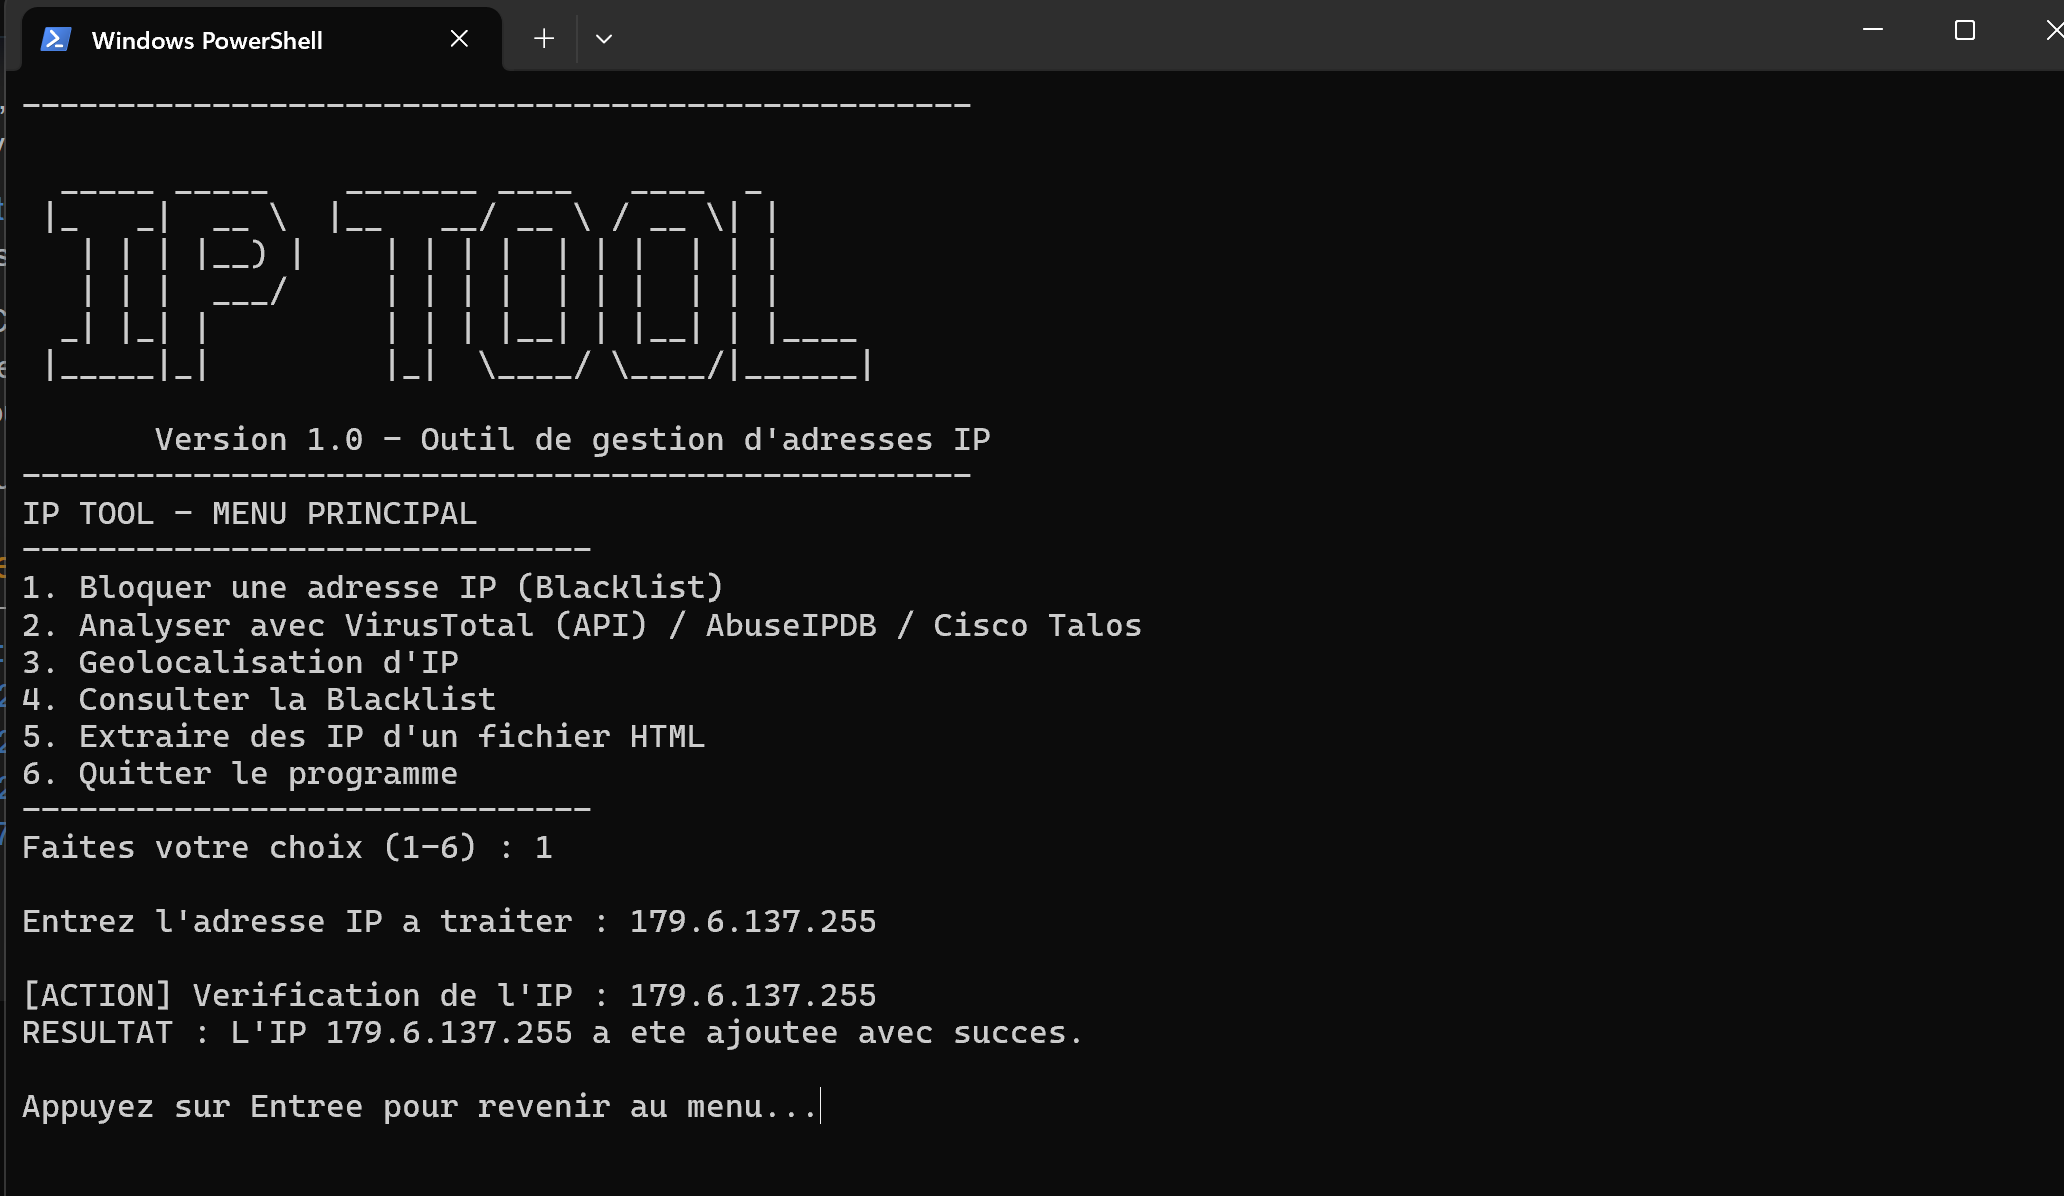
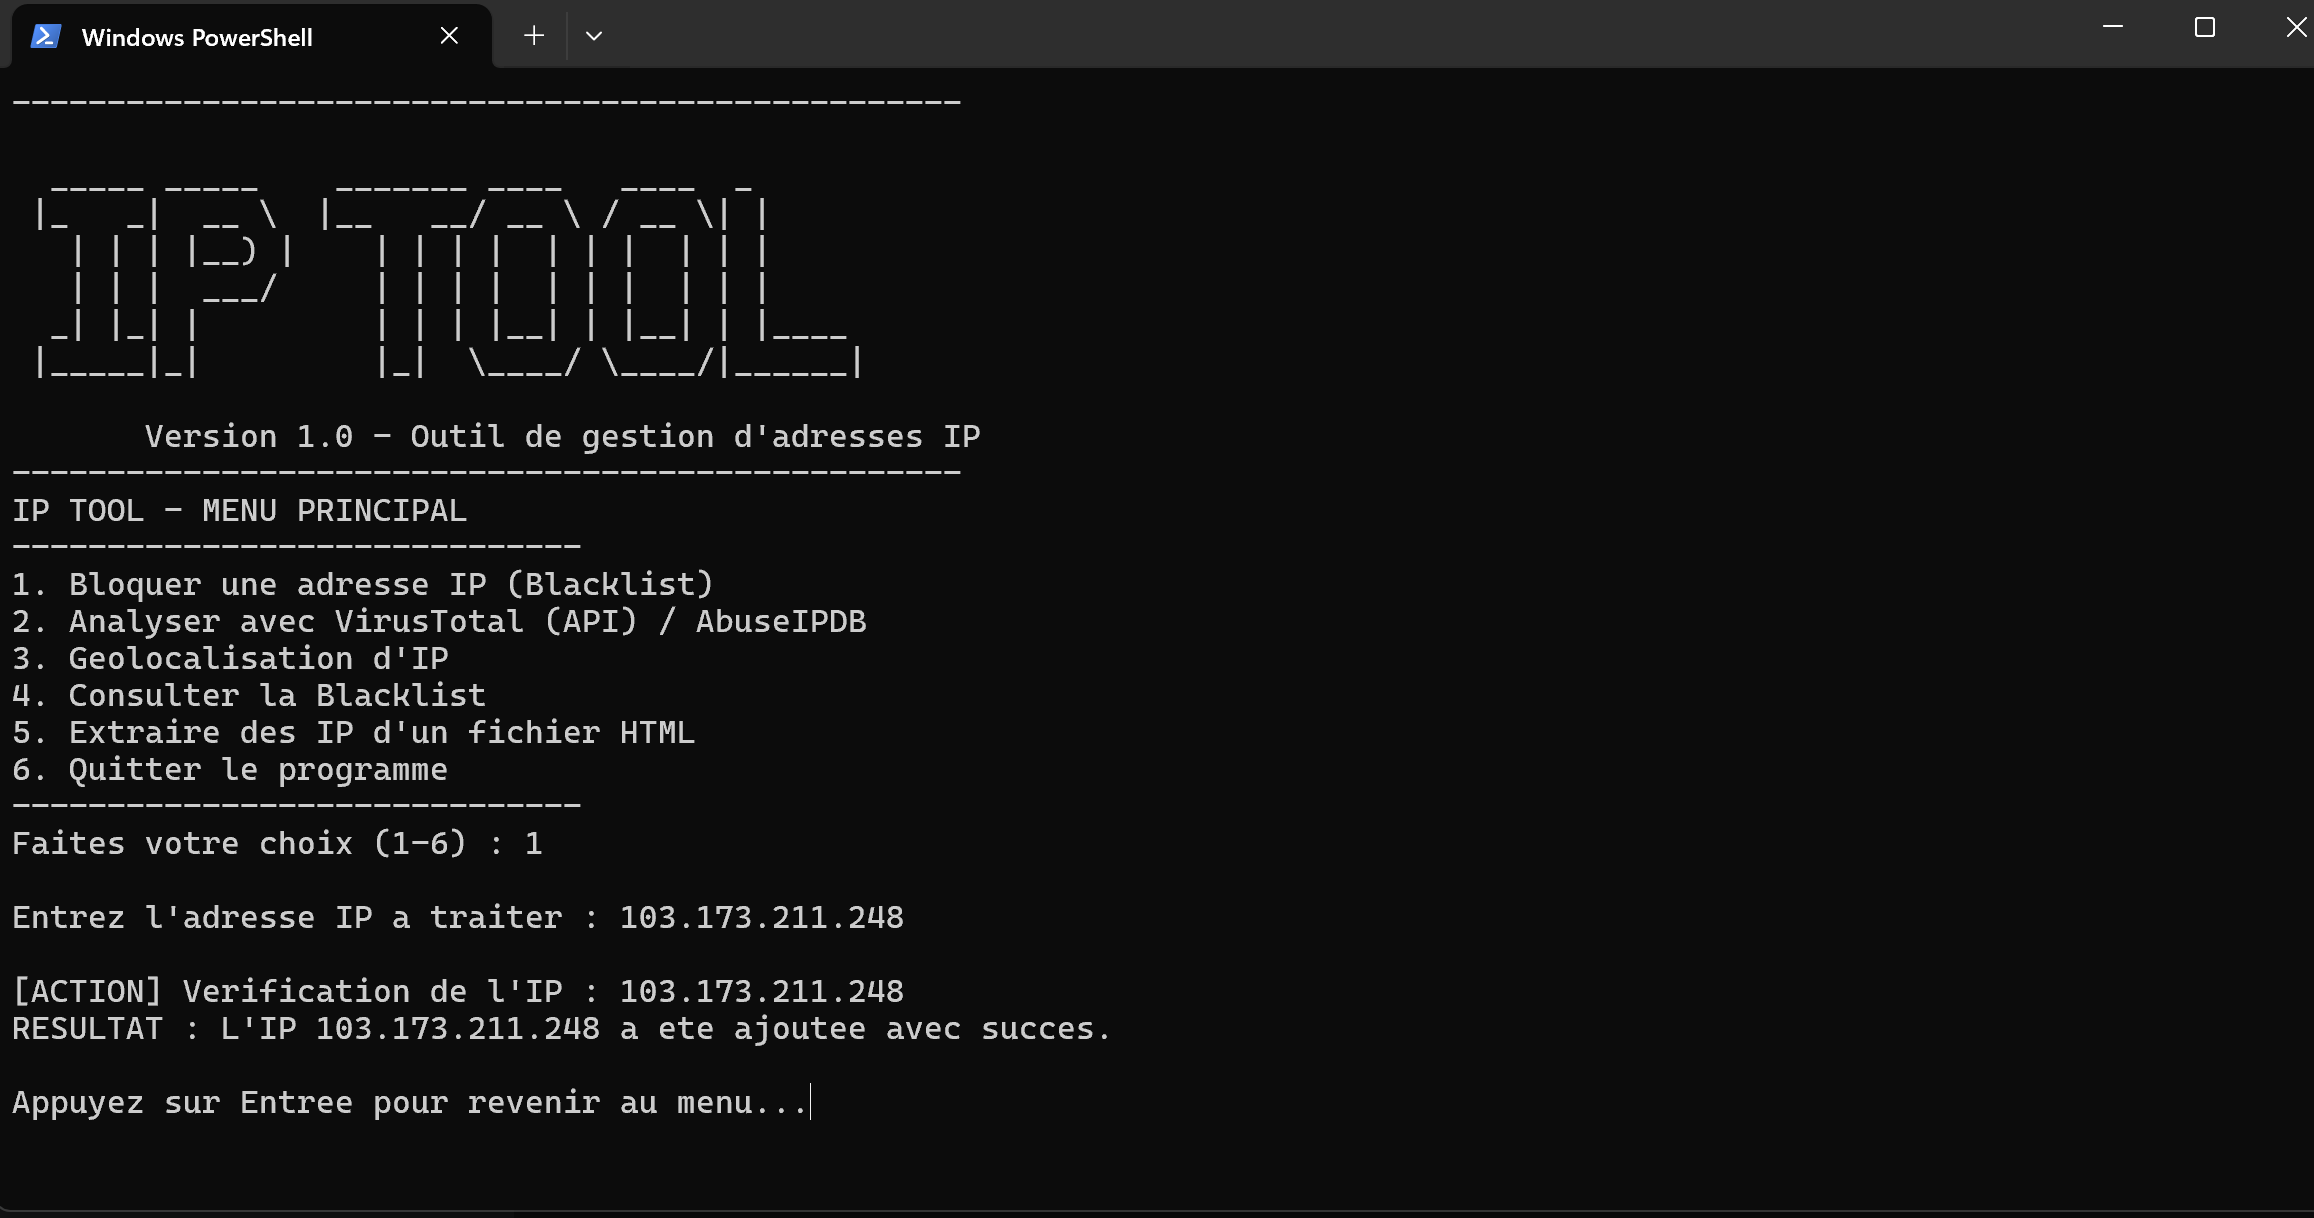
changement au niveau du cisco talos ca pas d api public dipspo

diff --git a/main.py b/main.py
@@ -8,7 +8,7 @@ while True:
     print("IP TOOL - MENU PRINCIPAL")
     print("-" * 30)
     print("1. Bloquer une adresse IP (Blacklist)")
-    print("2. Analyser avec VirusTotal (API) / AbuseIPDB / Cisco Talos")
+    print("2. Analyser avec VirusTotal (API) / AbuseIPDB")
     print("3. Geolocalisation d'IP")
     print("4. Consulter la Blacklist")
     print("5. Extraire des IP d'un fichier HTML")
